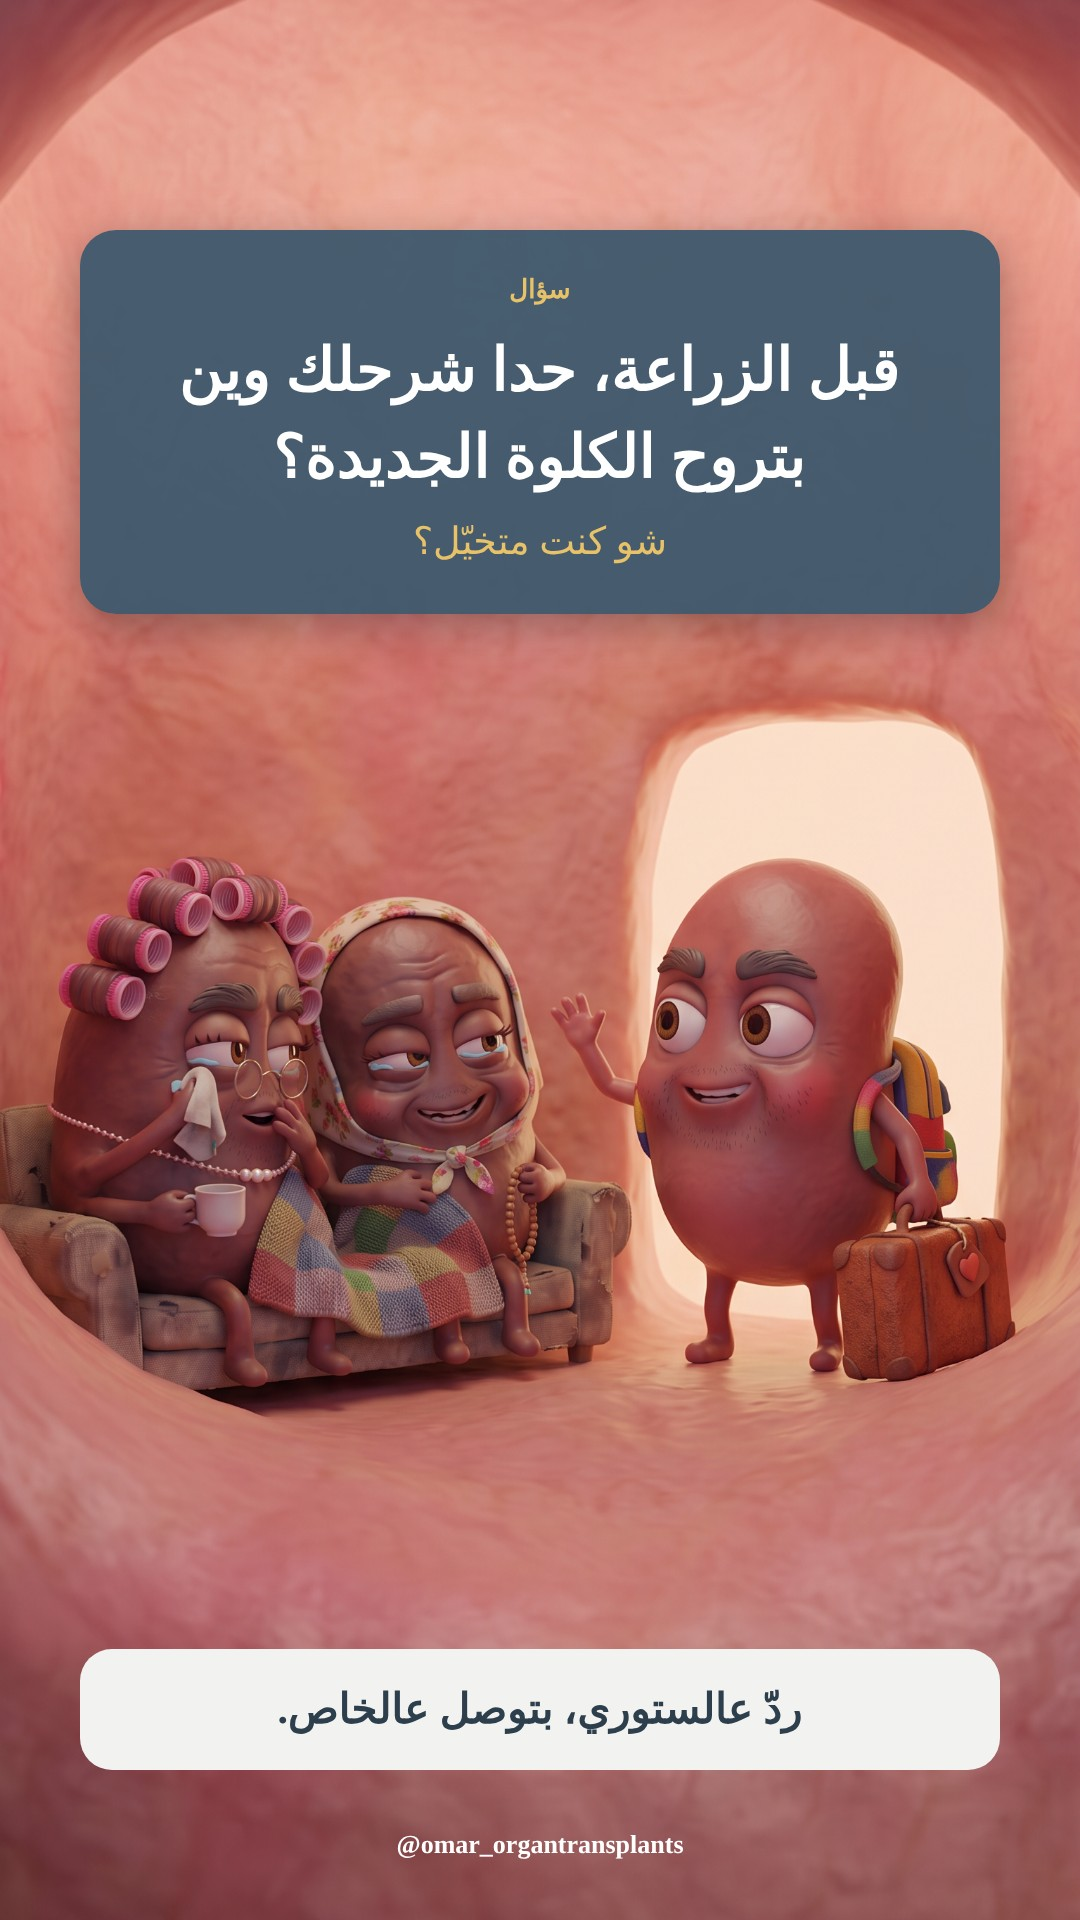
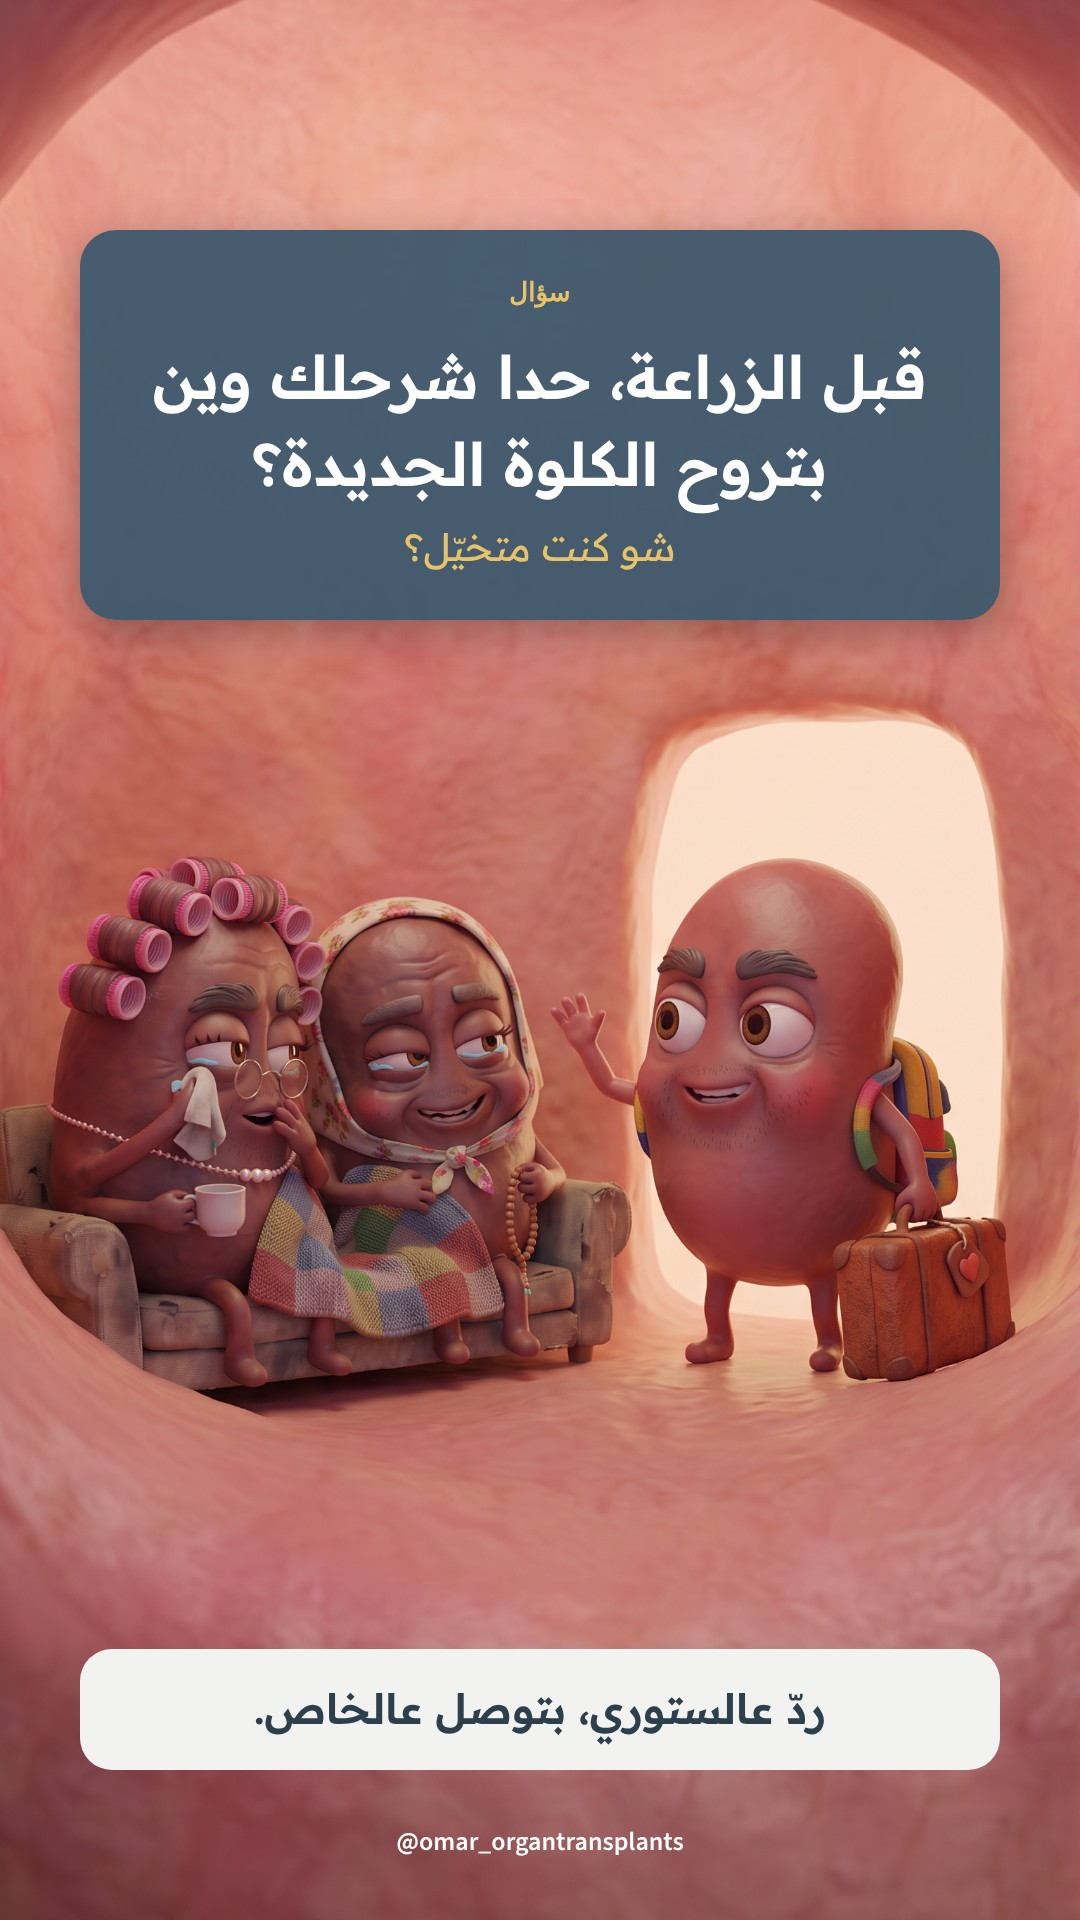
Stories 13-18 Nov re-rendered with the correct fonts; font check in story.js/render2.js + tools/package.json (Omar, 12 Nov: keep everything consistent)
Claude-Session: https://claude.ai/code/session_015KYtjHDNMKzaA4CQnrJG5a

diff --git a/tools/render2.js b/tools/render2.js
@@ -1,5 +1,5 @@
 // node render2.js spec.json outdir  -> ig 1080x1350 (EN first), tiktok 1080x1920 (AR first)
-const {chromium}=require('playwright');const fs=require('fs');const path=require('path');
+const {chromium}=require('playwright');require('./fontcheck')();const fs=require('fs');const path=require('path');
 (async()=>{const spec=JSON.parse(fs.readFileSync(process.argv[2],'utf8'));const out=process.argv[3];fs.mkdirSync(out,{recursive:true});
 const b=await chromium.launch({executablePath:'/opt/pw-browsers/chromium'});
 for(const [tag,w,h] of [['ig',1080,1350],['tiktok',1080,1920]]){const p=await b.newPage({viewport:{width:w,height:h}});
@@ -8,7 +8,7 @@ for(const [tag,w,h] of [['ig',1080,1350],['tiktok',1080,1920]]){const p=await b.
   if(s.photo) s.photo='file://'+path.resolve(path.dirname(process.argv[2]),s.photo);
   const tpl=s.photo?'card.html':'template.html';
   await p.goto('file://'+path.resolve(__dirname,tpl)+'?i='+i+'&t='+tag+'#'+encodeURIComponent(JSON.stringify(s)));
-  await p.evaluate(()=>document.fonts.ready);
+  await p.evaluate(()=>document.fonts.ready);{const bad=await p.evaluate(async()=>{await Promise.all([...document.fonts].map(f=>f.load().catch(()=>{})));return [...document.fonts].filter(f=>f.status!=='loaded').map(f=>f.family)});if(bad.length){console.error('FONT FAILED TO LOAD: '+bad.join(', '));process.exit(1);}}
   if(spec.swipe){await p.evaluate(([i,n,tag])=>{const ar=tag==='tiktok';const d2=x=>ar?String(x).replace(/\d/g,c=>'٠١٢٣٤٥٦٧٨٩'[c]):String(x);
    if(i<2){const c=document.createElement('div');c.style.cssText='position:fixed;'+(ar?'left:96px;':'left:50%;transform:translateX(-50%);')+'bottom:'+(ar?470:110)+'px;background:#E8C269;color:#3B2C0A;font:600 36px "Readex Pro","Source Sans 3",sans-serif;padding:12px 30px;border-radius:999px;box-shadow:0 6px 20px rgba(0,0,0,.25);z-index:99;direction:'+(ar?'rtl':'ltr');c.textContent=ar?'كمّل ←':'Swipe →';document.body.appendChild(c);}
   },[i,spec.slides.length,tag]);}

diff --git a/tools/story.js b/tools/story.js
@@ -1,7 +1,7 @@
 // node story.js spec.json out.jpg [en|ar]  (en = Instagram, English only; ar = TikTok, Arabic only; none = bilingual) -> 1080x1920 story (+ _preview.jpg 540x960). Photo path relative to spec.
-const {chromium}=require('playwright');const fs=require('fs');const path=require('path');
+const {chromium}=require('playwright');require('./fontcheck')();const fs=require('fs');const path=require('path');
 (async()=>{const s=JSON.parse(fs.readFileSync(process.argv[2],'utf8'));if(process.argv[4])s.lang=process.argv[4];s.photo='file://'+path.resolve(path.dirname(process.argv[2]),s.photo);
 const b=await chromium.launch();const p=await b.newPage({viewport:{width:1080,height:1920}});
-await p.goto('file://'+path.resolve(__dirname,'story.html')+'#'+encodeURIComponent(JSON.stringify(s)));await p.evaluate(()=>document.fonts.ready);await p.waitForTimeout(300);
+await p.goto('file://'+path.resolve(__dirname,'story.html')+'#'+encodeURIComponent(JSON.stringify(s)));await p.evaluate(()=>document.fonts.ready);{const bad=await p.evaluate(async()=>{await Promise.all([...document.fonts].map(f=>f.load().catch(()=>{})));return [...document.fonts].filter(f=>f.status!=='loaded').map(f=>f.family)});if(bad.length){console.error('FONT FAILED TO LOAD: '+bad.join(', '));process.exit(1);}}await p.waitForTimeout(300);
 const out=process.argv[3];await p.screenshot({path:out,type:'jpeg',quality:90});
 await p.setViewportSize({width:1080,height:1920});await b.close();})();

diff --git a/tools/fontcheck.js b/tools/fontcheck.js
@@ -1,0 +1,5 @@
+// Fails the render if the fonts are missing (Omar, 12 Nov: every story/carousel must use the same fonts; no fallback serif).
+const fs=require('fs'),path=require('path');
+module.exports=function(){const need=['@fontsource/source-sans-3/files/source-sans-3-latin-600-normal.woff2','@fontsource/source-sans-3/files/source-sans-3-latin-400-normal.woff2','@fontsource/readex-pro/files/readex-pro-arabic-400-normal.woff2','@fontsource/readex-pro/files/readex-pro-arabic-600-normal.woff2'];
+const miss=need.filter(f=>!fs.existsSync(path.join(__dirname,'node_modules',f)));
+if(miss.length){console.error('FONTS MISSING, run `npm i` in tools/ first:\n'+miss.join('\n'));process.exit(1);}};

diff --git a/tools/README.md b/tools/README.md
@@ -23,3 +23,4 @@
 - Story languages (Omar, 11 Nov): no translations on stories from now on. Instagram stories are English only, TikTok stories Arabic only. Render both from one spec: `node story.js dXXXX.json ../stories/daily/<name>_ig.jpg en` and `... <name>_tt.jpg ar` (en splits the first sentence into the headline; set en_h/en_sub to override). The eyebrow keeps only the parts in that language. Buffer IG stories use the _ig file.
 - فريق طبي / فرق طبية also applies to video scripts, spoken lines and captions (Omar, 11 Nov).
 - Story purpose (Omar, 11 Nov): every story has ONE job. Either a "new" story (new episode / post / reel is up: eyebrow + headline + one short line, no question box) or a question story (the question as the headline, plus one short "reply" line in the bottom box). Never both on the same story. No "every patient is different / ask your team" on stories; that line goes in the post captions instead. Specs use en_h / en_sub / qen and ar / ar2 / qar; leave qen/qar out for "new" stories.
+- Consistency (Omar, 12 Nov): every story, carousel and video uses the same look: Source Sans 3 (English), Readex Pro (Arabic), same card style. Run `npm i` in tools/ first (package.json lists the fonts). story.js and render2.js now stop with "FONTS MISSING" / "FONT FAILED TO LOAD" instead of silently rendering in a fallback serif (that happened to D1113b-D1118b; re-rendered 12 Nov). Before sending anything for approval, make a contact sheet of the week and check fonts, card style and language split match the previous week.
